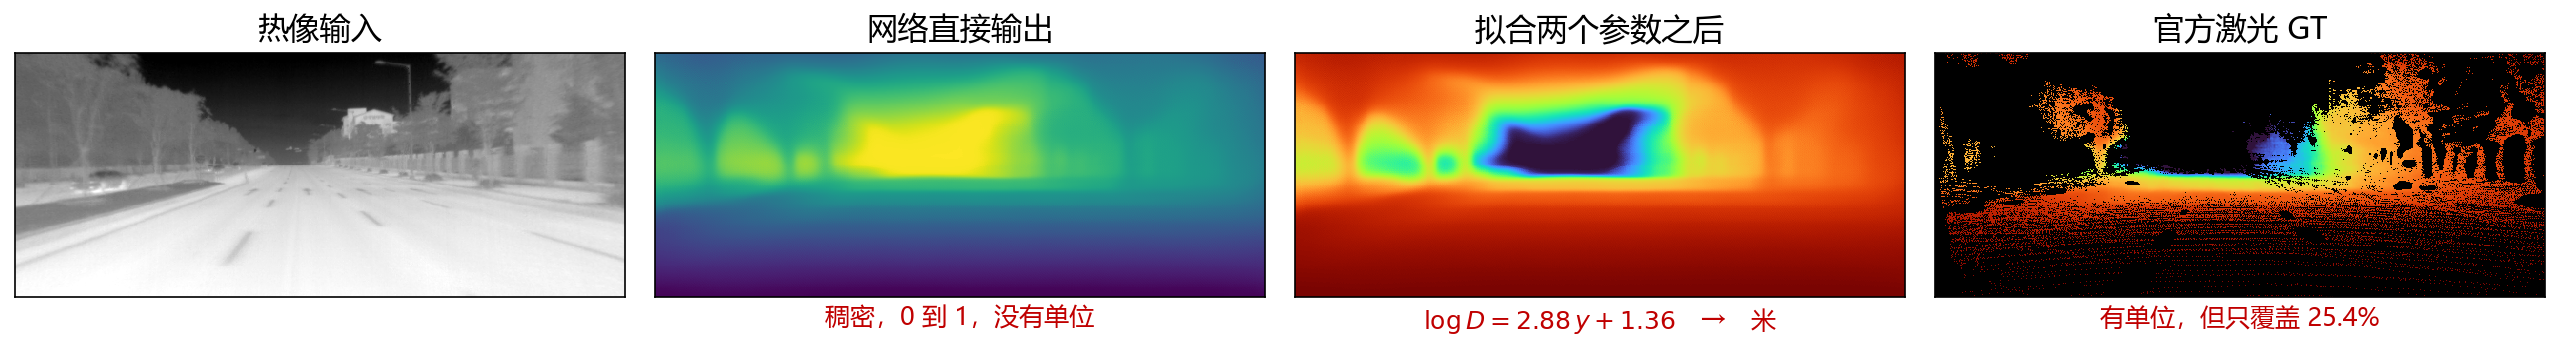
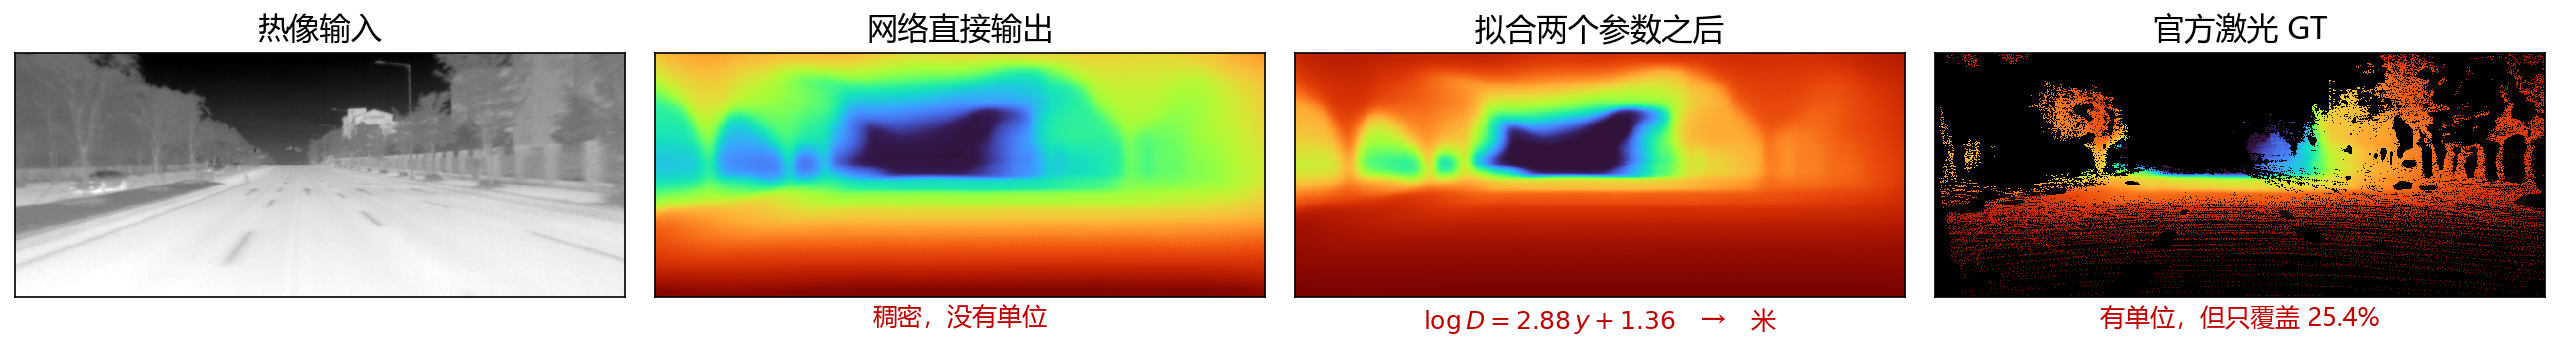
Sweep the last of the numeric ranges out of the deck
They kept reappearing one page at a time -- the figure, then the header, then
the panel label, then the body paragraph under it -- because each was written
separately and only the one on screen got fixed. This is the rest of them,
including the stage-two figure that is not currently in the deck.

Changed region(s): [[0.247, 0.1429, 0.4939, 0.9429]]

diff --git a/tools/build_report_20260921.py b/tools/build_report_20260921.py
@@ -258,7 +258,7 @@ def chain(prs):
         slide.shapes.add_picture(str(picture), Inches(MARGIN), Inches(1.72),
                                  width=Inches(BODY_W))
     write(textbox(slide, MARGIN, 3.80, BODY_W, 2.4), [
-        "网络吐出的是一张 0 到 1 的图，稠密但没有单位；官方激光有单位但只覆盖约四分之一的像素。"
+        "网络吐出的是一张稠密的相对深度图，没有单位；官方激光有单位但只覆盖约四分之一的像素。"
         "每一帧在有激光的那些像素上拟合两个数，就把整张图换算成米 —— 图中红色那行公式即是。",
         ("这两个数是逐帧拟合的，绝对尺度在造训练目标时就被除掉了，所以模型输出没有单位是必然的。",
          {"colour": GREY, "size": 12}),

diff --git a/docs/figures/build_architecture.py b/docs/figures/build_architecture.py
@@ -186,7 +186,7 @@ def metric_head():
     block(ax, 6.45, 1.05, 3.05, 3.15, "重标定头", "0.39 M · 唯一训练的部分",
           state="train", radius=0.14)
     arrow(ax, 2.80, 3.75, 6.45, 3.55)
-    ax.text(4.60, 3.88, "相对深度 y（0 到 1）", ha="center", fontsize=9.5,
+    ax.text(4.60, 3.88, "相对深度 y，没有单位", ha="center", fontsize=9.5,
             color=MUTED)
     arrow(ax, 2.80, 2.45, 6.45, 2.62)
     arrow(ax, 5.90, 1.15, 6.45, 1.70)

diff --git a/docs/figures/build_slide_variants.py b/docs/figures/build_slide_variants.py
@@ -68,7 +68,7 @@ def metric_chain_slide():
     # direction must not.
     ax2.imshow(y, cmap="turbo_r", vmin=0, vmax=1, interpolation="nearest")
     ax2.set_title("网络直接输出", fontsize=15, pad=7)
-    ax2.set_xlabel("稠密，0 到 1，没有单位", fontsize=12, color="#C00000", labelpad=4)
+    ax2.set_xlabel("稠密，没有单位", fontsize=12, color="#C00000", labelpad=4)
 
     ax3 = fig.add_subplot(gs[0, 2])
     ax3.imshow(metres, **depth_kw)
